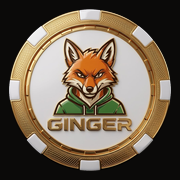
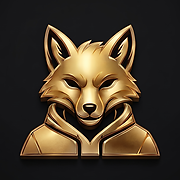
Новый логотип: лиса без надписи в иконках и мелких местах, с надписью — на входе, установке и в письмах

diff --git a/frontend/src/components/auth/AuthShell.tsx b/frontend/src/components/auth/AuthShell.tsx
@@ -1,8 +1,6 @@
 import type { ReactNode } from "react";
 import { useLocation, useNavigate } from "react-router-dom";
 
-import { GingerWordmark } from "@/components/brand/GingerWordmark";
-
 const iconClass =
   "h-5 w-5 stroke-current fill-none [stroke-width:1.5] [stroke-linecap:round] [stroke-linejoin:round]";
 
@@ -51,14 +49,13 @@ export function AuthShell({ children, onBack, toast }: Props) {
           </button>
         </div>
 
-        <div className="mt-6 mb-1.5 flex items-center gap-4">
+        {/* Крупный экран — логотип с надписью; в мелких местах — лиса без надписи. */}
+        <div className="mt-2 mb-1.5 flex">
           <img
-            src="/icons/ginger-mark-96.png"
-            alt=""
-            aria-hidden="true"
-            className="h-11 w-11 rounded-full shadow-[0_0_0_3px_var(--bg),0_0_0_4px_var(--frame-hi-outer),0_0_0_8px_var(--bg),0_0_0_9px_var(--frame-inner)]"
+            src="/brand/ginger-logo-600.webp"
+            alt="Ginger"
+            className="deco-logo h-[132px] w-[132px]"
           />
-          <GingerWordmark className="h-[22px] w-auto" />
         </div>
         <div aria-hidden="true" className="deco-rule mt-4 mb-1" />
 

diff --git a/frontend/src/pages/OnboardingPage.tsx b/frontend/src/pages/OnboardingPage.tsx
@@ -36,8 +36,12 @@ export function OnboardingPage() {
       <div className="flex-1">
         {step === "welcome" ? (
           <>
-            <img src="/icons/ginger-mark-96.png" alt="" className="h-16 w-16 rounded-full" />
-            <h1 className="mt-4 text-[26px] leading-tight font-extrabold tracking-tight">
+            <img
+              src="/brand/ginger-logo-600.webp"
+              alt="Ginger"
+              className="deco-logo h-[168px] w-[168px]"
+            />
+            <h1 className="mt-6 text-[26px] leading-tight font-extrabold tracking-tight">
               Ginger — фишки, расписание, связь
             </h1>
             <ul className="text-ink-2 mt-3 space-y-1.5 text-[15px]">

diff --git a/frontend/src/index.css b/frontend/src/index.css
@@ -565,6 +565,18 @@ html.ginger-layout-wide [data-mobile-nav] {
   }
 }
 
+/* Логотип с надписью на крупных экранах: картинка на чёрном, в двойной рамке —
+   в тёмной теме сливается с фоном, в светлой читается как табличка. */
+@utility deco-logo {
+  display: block;
+  background: #0b0a09;
+  box-shadow:
+    0 0 0 3px var(--bg),
+    0 0 0 4px var(--frame-hi-outer),
+    0 0 0 8px var(--bg),
+    0 0 0 9px var(--frame-inner);
+}
+
 /* Орнамент-разделитель: линия, ромб, линия. */
 @utility deco-rule {
   position: relative;

diff --git a/frontend/src/pages/InstallPage.tsx b/frontend/src/pages/InstallPage.tsx
@@ -10,8 +10,12 @@ export function InstallPage() {
         ← Главная
       </Link>
       <div className="pt-6">
-        <img src="/icons/ginger-mark-96.png" alt="" className="h-14 w-14 rounded-full" />
-        <h1 className="mt-4 text-[19px] font-bold tracking-[0.18em] uppercase">
+        <img
+          src="/brand/ginger-logo-600.webp"
+          alt="Ginger"
+          className="deco-logo h-[144px] w-[144px]"
+        />
+        <h1 className="mt-6 text-[19px] font-bold tracking-[0.18em] uppercase">
           Установите Ginger
         </h1>
         <p className="text-ink-2 mt-1.5 mb-4 text-[14px]">

diff --git a/frontend/src/pages/admin/AdminLayout.tsx b/frontend/src/pages/admin/AdminLayout.tsx
@@ -77,7 +77,7 @@ function SidebarNav({ showUsers, onNavigate }: { showUsers: boolean; onNavigate?
         className="text-ink hover:bg-surface-2 mb-[18px] flex cursor-pointer items-center gap-[7px] rounded-[10px] px-2 pt-1.5 text-[17px] font-extrabold"
       >
         <img
-          src="/icons/ginger-mark-96.png"
+          src="/icons/ginger-mark-192.png"
           alt=""
           aria-hidden="true"
           className="h-6 w-6 rounded-full"

diff --git a/frontend/src/pages/PlayerHomePage.tsx b/frontend/src/pages/PlayerHomePage.tsx
@@ -66,7 +66,7 @@ export function PlayerHomePage() {
     <div className="bg-bg min-h-full px-3 pb-4" data-testid="player-home">
       <header className="grid grid-cols-[minmax(0,1fr)_auto_minmax(0,1fr)] items-center gap-2 pt-3.5 pb-3">
         <img
-          src="/icons/ginger-mark-96.png"
+          src="/icons/ginger-mark-192.png"
           alt=""
           aria-hidden="true"
           className="h-7 w-7 rounded-full"
